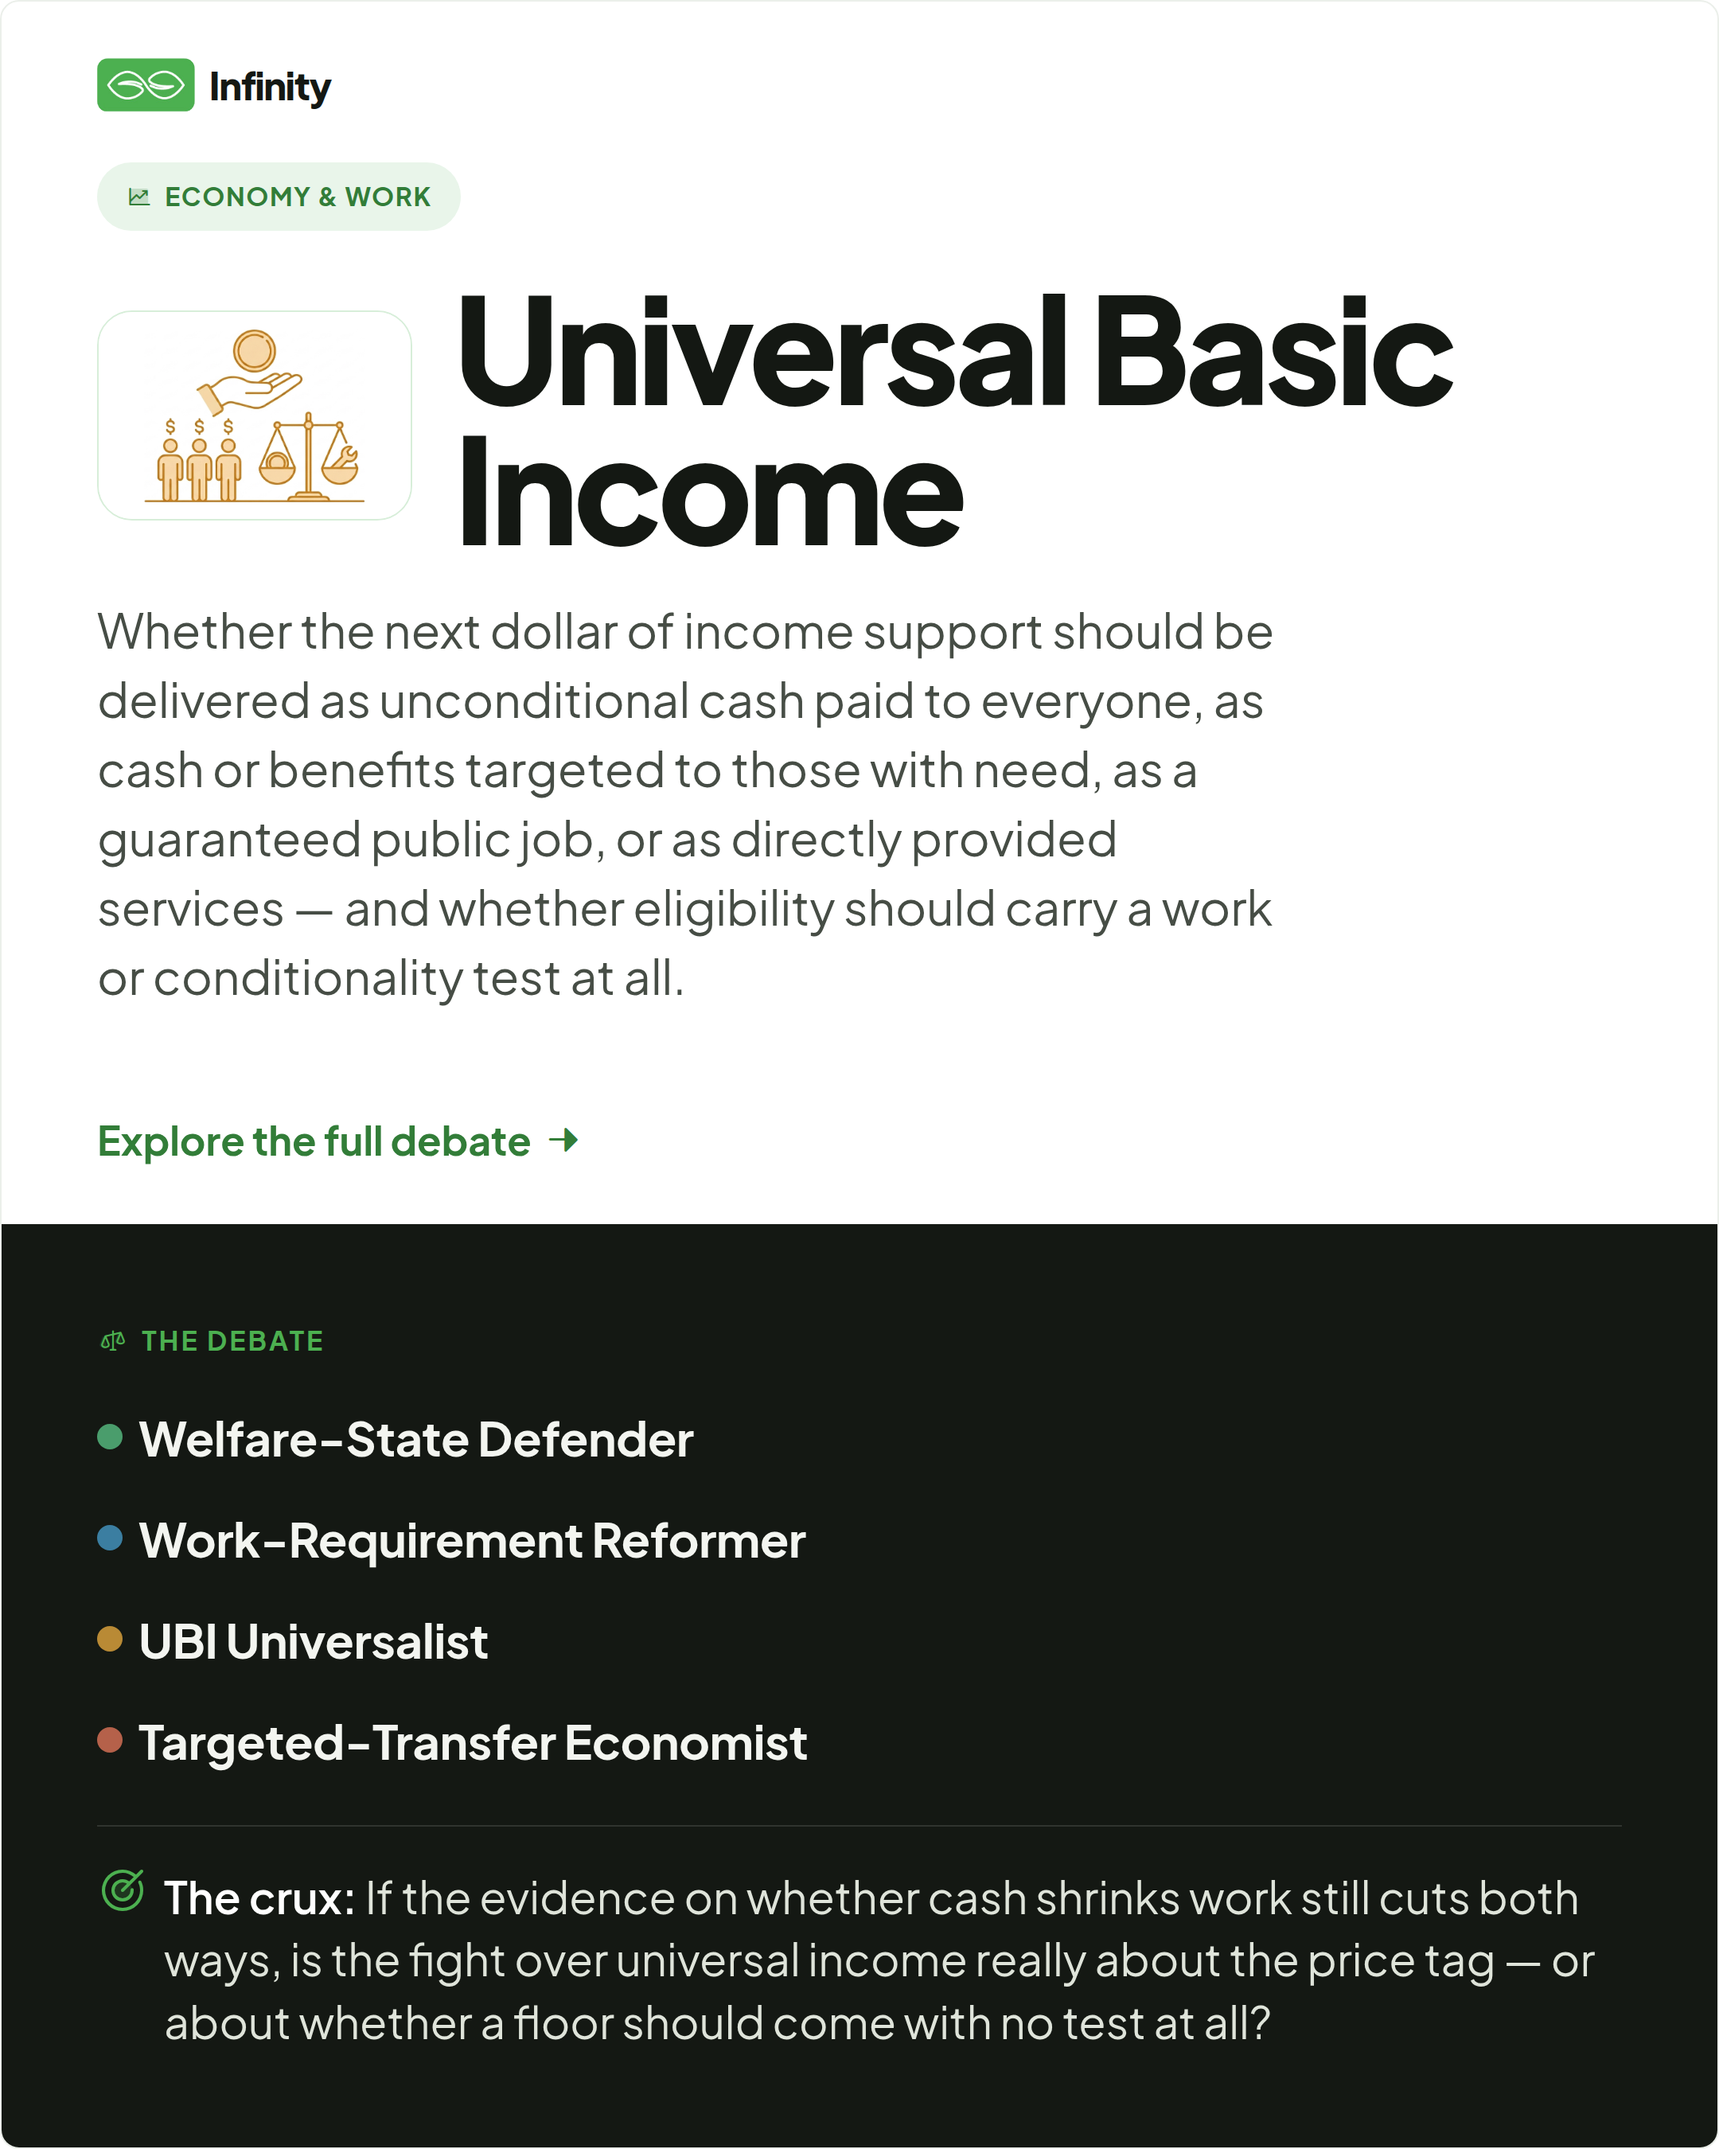
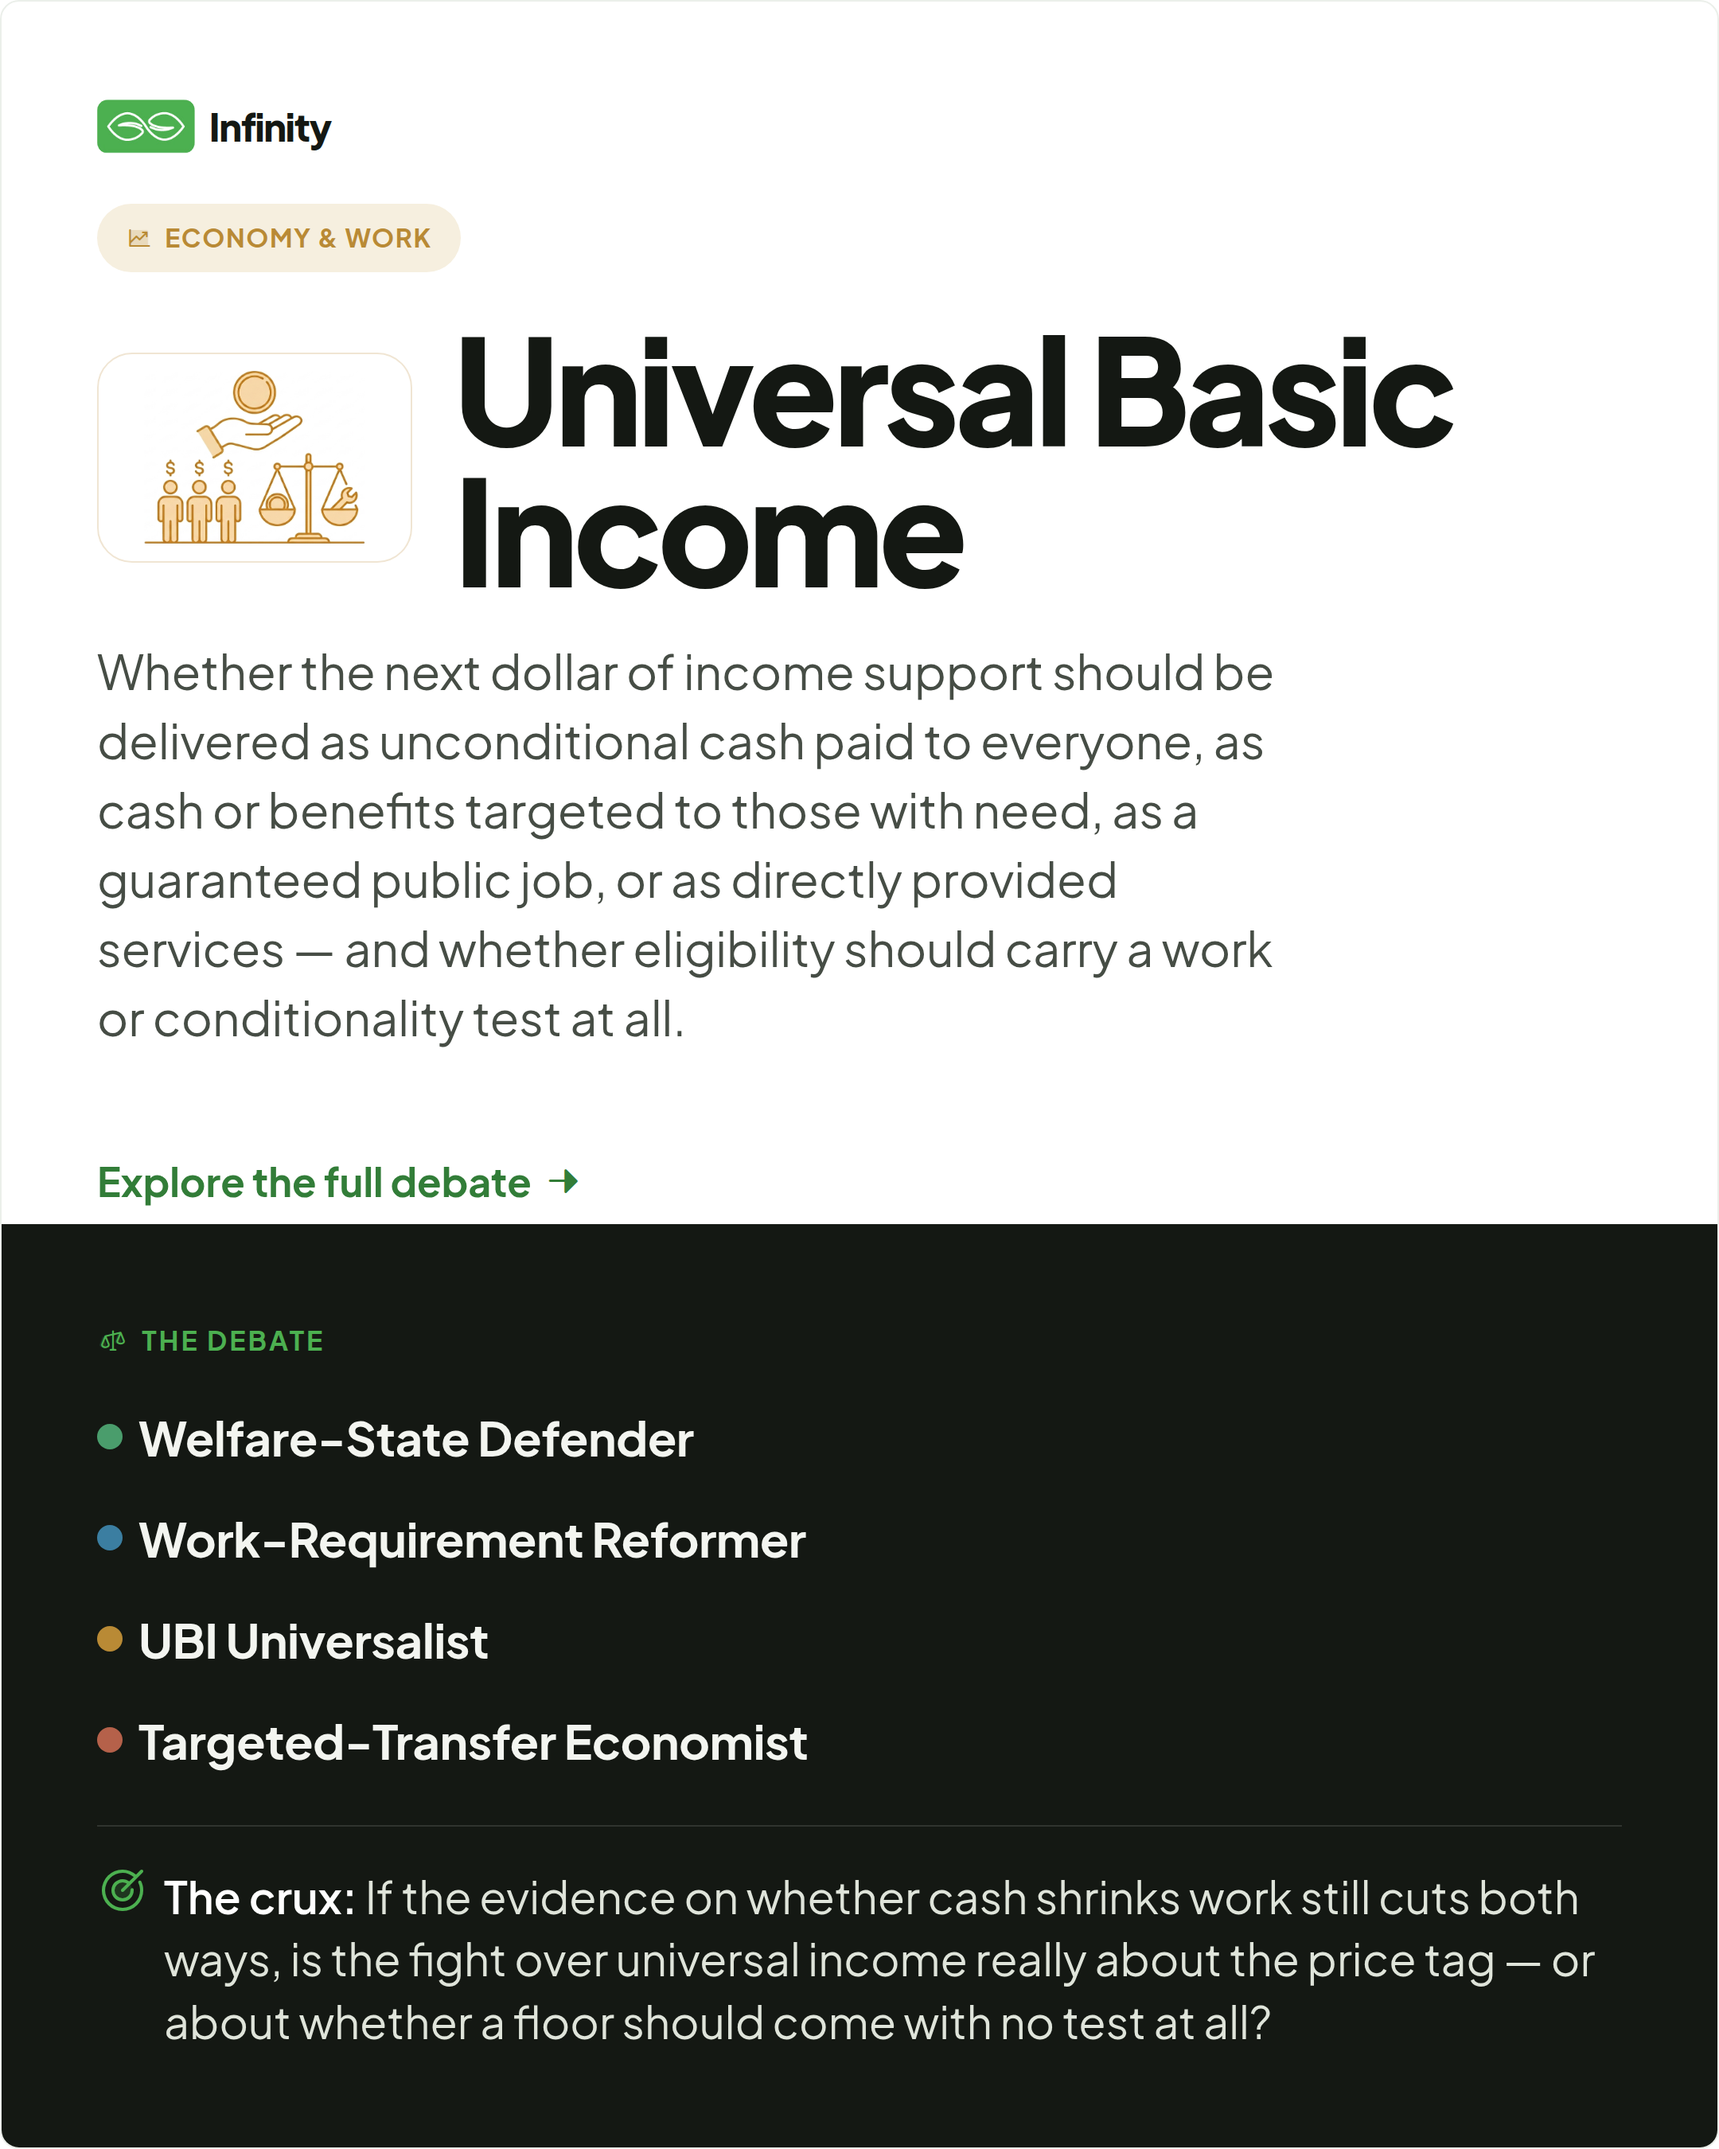
Category-true colors on cards + poster; overflow-proof card layout
The share cards and poster hardcoded the category chip and icon tile to
brand green — invisible on Nuclear (green category), wrong on UBI
(amber). Both now consume --cat/--cat-tint from the topic's category
with green as fallback. The sq/pt white section's center-justification
clipped the brand row off the top whenever content ran tall; centering
is now overflow-safe and summaries line-clamp per format (og 6 / sq 5 /
pt 7, flex:none so the clamp owns its height) with a graceful ellipsis.
All six PNGs regenerated on the final CSS.

Changed region(s): [[0.031, 0.0, 0.8375, 0.4978], [0.062, 0.5289, 0.3412, 0.56]]

diff --git a/templates/topics/share.html b/templates/topics/share.html
@@ -33,13 +33,13 @@
   .brand{display:flex;align-items:center;gap:9px}
   .brand .mark{border-radius:7px} .brand .wm{font-weight:800;letter-spacing:-.03em;color:var(--ink-900)}
   .brand .sep{width:3px;height:3px;border-radius:9999px;background:var(--ink-300)} .brand .tag{color:var(--ink-400);font-weight:500}
-  .cat{display:inline-flex;align-items:center;gap:7px;font-weight:700;text-transform:uppercase;letter-spacing:.05em;color:var(--green-700);background:var(--green-tint);border-radius:9999px;align-self:flex-start}
+  .cat{display:inline-flex;align-items:center;gap:7px;font-weight:700;text-transform:uppercase;letter-spacing:.05em;color:var(--cat,var(--green-700));background:var(--cat-tint,var(--green-tint));border-radius:9999px;align-self:flex-start}
   .ttlrow{display:flex;align-items:center;gap:var(--gap)}
-  .ticon{flex:none;border-radius:var(--tir);background:var(--green-tint);border:1px solid var(--green-tint-strong);display:flex;align-items:center;justify-content:center;color:var(--green-700)}
+  .ticon{flex:none;border-radius:var(--tir);background:var(--cat-tint,var(--green-tint));border:1px solid color-mix(in srgb,var(--cat,var(--green-700)) 22%,#fff);display:flex;align-items:center;justify-content:center;color:var(--cat,var(--green-700))}
   .card .ticon.tart{width:auto;aspect-ratio:3/2;padding:0;overflow:hidden}
   .card .ticon.tart img{width:100%;height:100%;object-fit:cover;display:block}
   .ttl{font-weight:800;letter-spacing:-.035em;line-height:.96;color:var(--ink-900);margin:0}
-  .summary{color:var(--ink-600);line-height:1.45;text-wrap:pretty}
+  .summary{color:var(--ink-600);line-height:1.45;text-wrap:pretty;display:-webkit-box;-webkit-box-orient:vertical;overflow:hidden;flex:none}
   .dk{background:var(--ink-900);color:#fff;display:flex;flex-direction:column;padding:var(--pad)}
   .dk .dlabel{font-weight:700;text-transform:uppercase;letter-spacing:.09em;color:var(--green-500);display:flex;align-items:center;gap:8px}
   .poss{display:flex;flex-direction:column;gap:var(--pgap);margin-top:var(--pmt)}
@@ -48,22 +48,22 @@
   .hook{margin-top:auto;border-top:1px solid rgba(255,255,255,.12);display:flex;gap:10px;align-items:flex-start}
   .hook i{color:var(--green-500);flex:none} .hook .ct{color:#dfe4da;line-height:1.4} .hook .ct b{color:#fff;font-weight:600}
   .og{width:1200px;height:630px;--pad:52px;--gap:20px;--tir:18px}
-  .og .lt{flex:0 0 56%;justify-content:center} .og .brand{font-size:22px}.og .brand .mark{height:30px;width:auto}
+  .og .lt{flex:0 0 56%;justify-content:safe center} .og .brand{font-size:22px}.og .brand .mark{height:30px;width:auto}
   .og .cat{font-size:15px;padding:7px 15px;margin-top:30px} .og .ttlrow{margin-top:26px}
   .og .ticon{width:100px;height:100px}.og .ticon i{font-size:58px} .og .ttl{font-size:66px}
-  .og .summary{font-size:24px;margin-top:24px;max-width:26ch}
+  .og .summary{font-size:24px;margin-top:24px;max-width:26ch;-webkit-line-clamp:6}
   .og .dk{flex:0 0 44%;--pgap:17px;--pmt:24px;justify-content:center} .og .dlabel{font-size:16px}
   .og .pos .pd{width:14px;height:14px}.og .pos .pnm{font-size:25px}
   .og .hook{margin-top:28px;padding-top:22px}.og .hook i{font-size:24px}.og .hook .ct{font-size:20px}
   /* sq/pt stack vertically: the dark panel takes its natural height, the white
      section flexes and centers — content can never push past the card edge */
-  .sq .lt,.pt .lt{flex:1 1 0;min-height:0;justify-content:center}
+  .sq .lt,.pt .lt{flex:1 1 0;min-height:0;justify-content:safe center}
   .sq .dk,.pt .dk{flex:none}
   .sq{width:1080px;height:1080px;flex-direction:column;--pad:56px;--gap:24px;--tir:20px}
   .sq .brand{font-size:23px}.sq .brand .mark{height:32px;width:auto}.sq .brand .tag{font-size:15px}
   .sq .cat{font-size:15px;padding:8px 17px;margin-top:26px} .sq .ttlrow{margin-top:24px}
   .sq .ticon{width:116px;height:116px}.sq .ticon i{font-size:66px} .sq .ttl{font-size:78px}
-  .sq .summary{font-size:27px;margin-top:22px;max-width:36ch}
+  .sq .summary{font-size:27px;margin-top:22px;max-width:36ch;-webkit-line-clamp:5}
   .sq .dk{--pgap:15px;--pmt:20px} .sq .dlabel{font-size:16px}
   .sq .pos .pd{width:15px;height:15px}.sq .pos .pnm{font-size:26px}
   .sq .hook{margin-top:26px;padding-top:20px}.sq .hook i{font-size:28px}.sq .hook .ct{font-size:24px}
@@ -71,7 +71,7 @@
   .pt .brand{font-size:24px}.pt .brand .mark{height:34px;width:auto}.pt .brand .tag{font-size:16px}
   .pt .cat{font-size:16px;padding:9px 18px;margin-top:30px} .pt .ttlrow{margin-top:28px}
   .pt .ticon{width:132px;height:132px}.pt .ticon i{font-size:76px} .pt .ttl{font-size:92px}
-  .pt .summary{font-size:30px;margin-top:24px;max-width:34ch}
+  .pt .summary{font-size:30px;margin-top:24px;max-width:34ch;-webkit-line-clamp:7}
   .pt .dk{--pgap:17px;--pmt:24px} .pt .dlabel{font-size:17px}
   .pt .pos .pd{width:16px;height:16px}.pt .pos .pnm{font-size:30px}
   .pt .hook{margin-top:30px;padding-top:24px}.pt .hook i{font-size:32px}.pt .hook .ct{font-size:28px}
@@ -82,7 +82,7 @@
   .pt .cta{font-size:25px;margin-top:32px}.pt .cta i{font-size:24px}
 </style>
 </head>
-<body{% if render_card %} class="card-only"{% elif render_unfurl %} class="unfurl-only"{% endif %}>
+<body{% if render_card %} class="card-only"{% elif render_unfurl %} class="unfurl-only"{% endif %}{% if topic.color_category %} style="--cat:{{ topic.color_category.color_var }};--cat-tint:{{ topic.color_category.tint_var }}"{% endif %}>
 {% with cc=topic.color_category %}
 {% spaceless %}
 {% if render_card %}

diff --git a/templates/topics/poster.html b/templates/topics/poster.html
@@ -36,7 +36,7 @@
   .heroart img{display:block;width:100%;height:auto}
   .heroicon{flex:none;width:2in;height:2in;border-radius:34px;background:var(--green-tint);border:1px solid var(--green-tint-strong);display:flex;align-items:center;justify-content:center;color:var(--green-700)}
   .heroicon i{font-size:88pt}
-  .cat{display:inline-flex;align-items:center;gap:8px;font-weight:800;font-size:11pt;text-transform:uppercase;letter-spacing:.05em;color:var(--green-700);background:var(--green-tint);border-radius:9999px;padding:7px 16px}
+  .cat{display:inline-flex;align-items:center;gap:8px;font-weight:800;font-size:11pt;text-transform:uppercase;letter-spacing:.05em;color:var(--cat,var(--green-700));background:var(--cat-tint,var(--green-tint));border-radius:9999px;padding:7px 16px}
   .cat i{font-size:12pt}
   .title{font-weight:800;font-size:102pt;letter-spacing:-.045em;line-height:.92;margin:0.16in 0 0}
   .title.title-sm{font-size:80pt}
@@ -113,7 +113,7 @@
       <div class="herorow">
         <div class="herotext">
           {% with cc=topic.color_category %}
-          {% if cc %}<span class="cat"><i class="ph-duotone ph-{{ cc.icon|default:'squares-four' }}"></i>{{ cc.name }}</span>{% endif %}
+          {% if cc %}<span class="cat" style="--cat:{{ cc.color_var }};--cat-tint:{{ cc.tint_var }}"><i class="ph-duotone ph-{{ cc.icon|default:'squares-four' }}"></i>{{ cc.name }}</span>{% endif %}
           {% endwith %}
           {% with n=topic.title|length %}<h1 class="title{% if n > 40 %} title-xs{% elif n > 24 %} title-sm{% endif %}">{{ topic.title }}</h1>{% endwith %}
           <p class="summary">{{ topic.summary }}</p>
